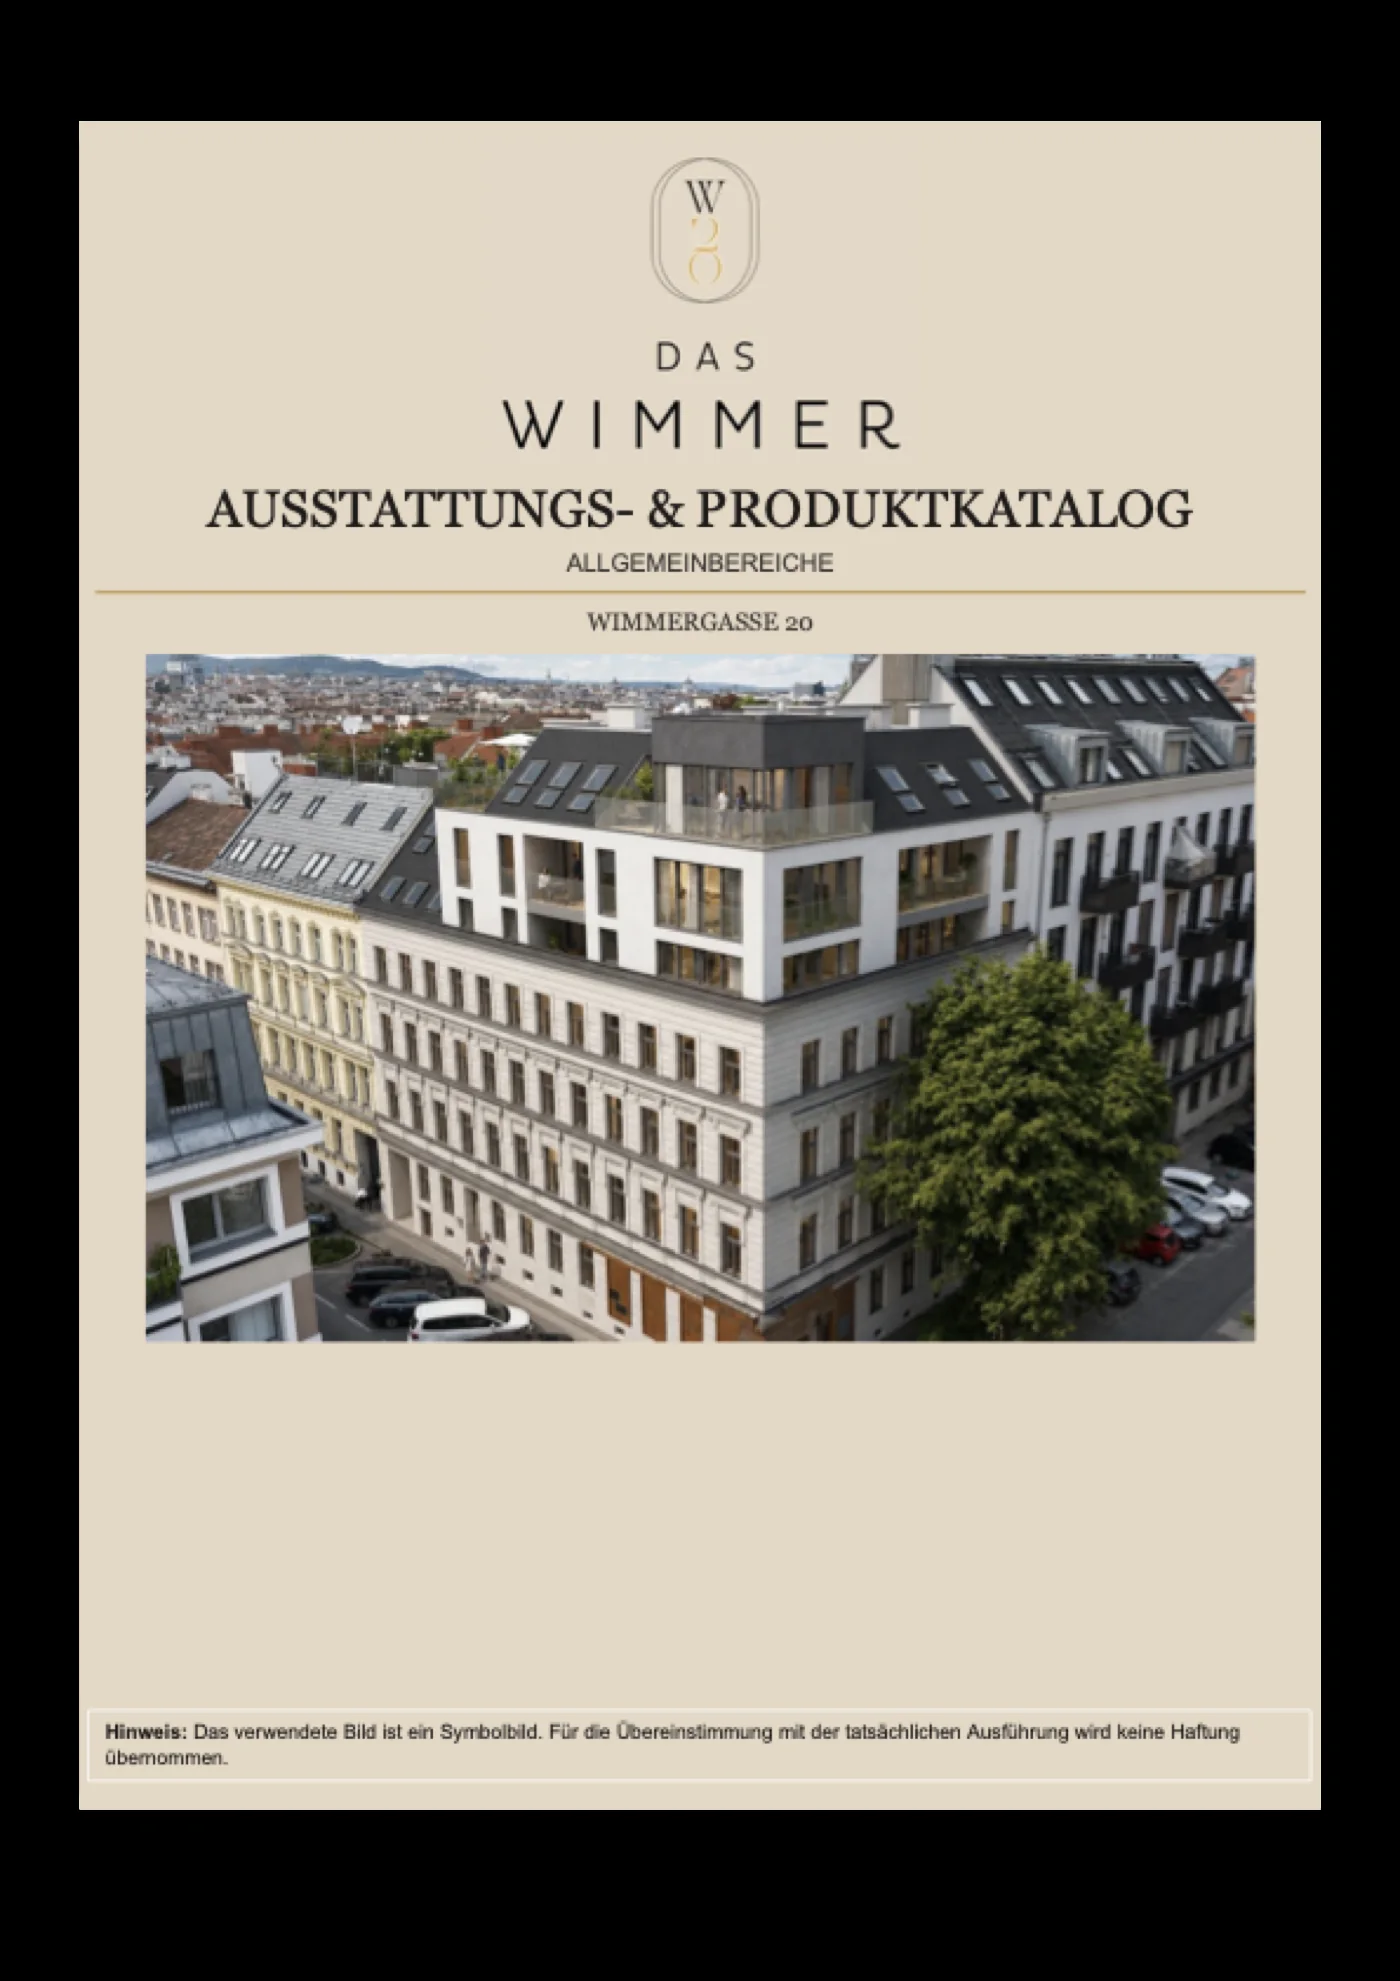
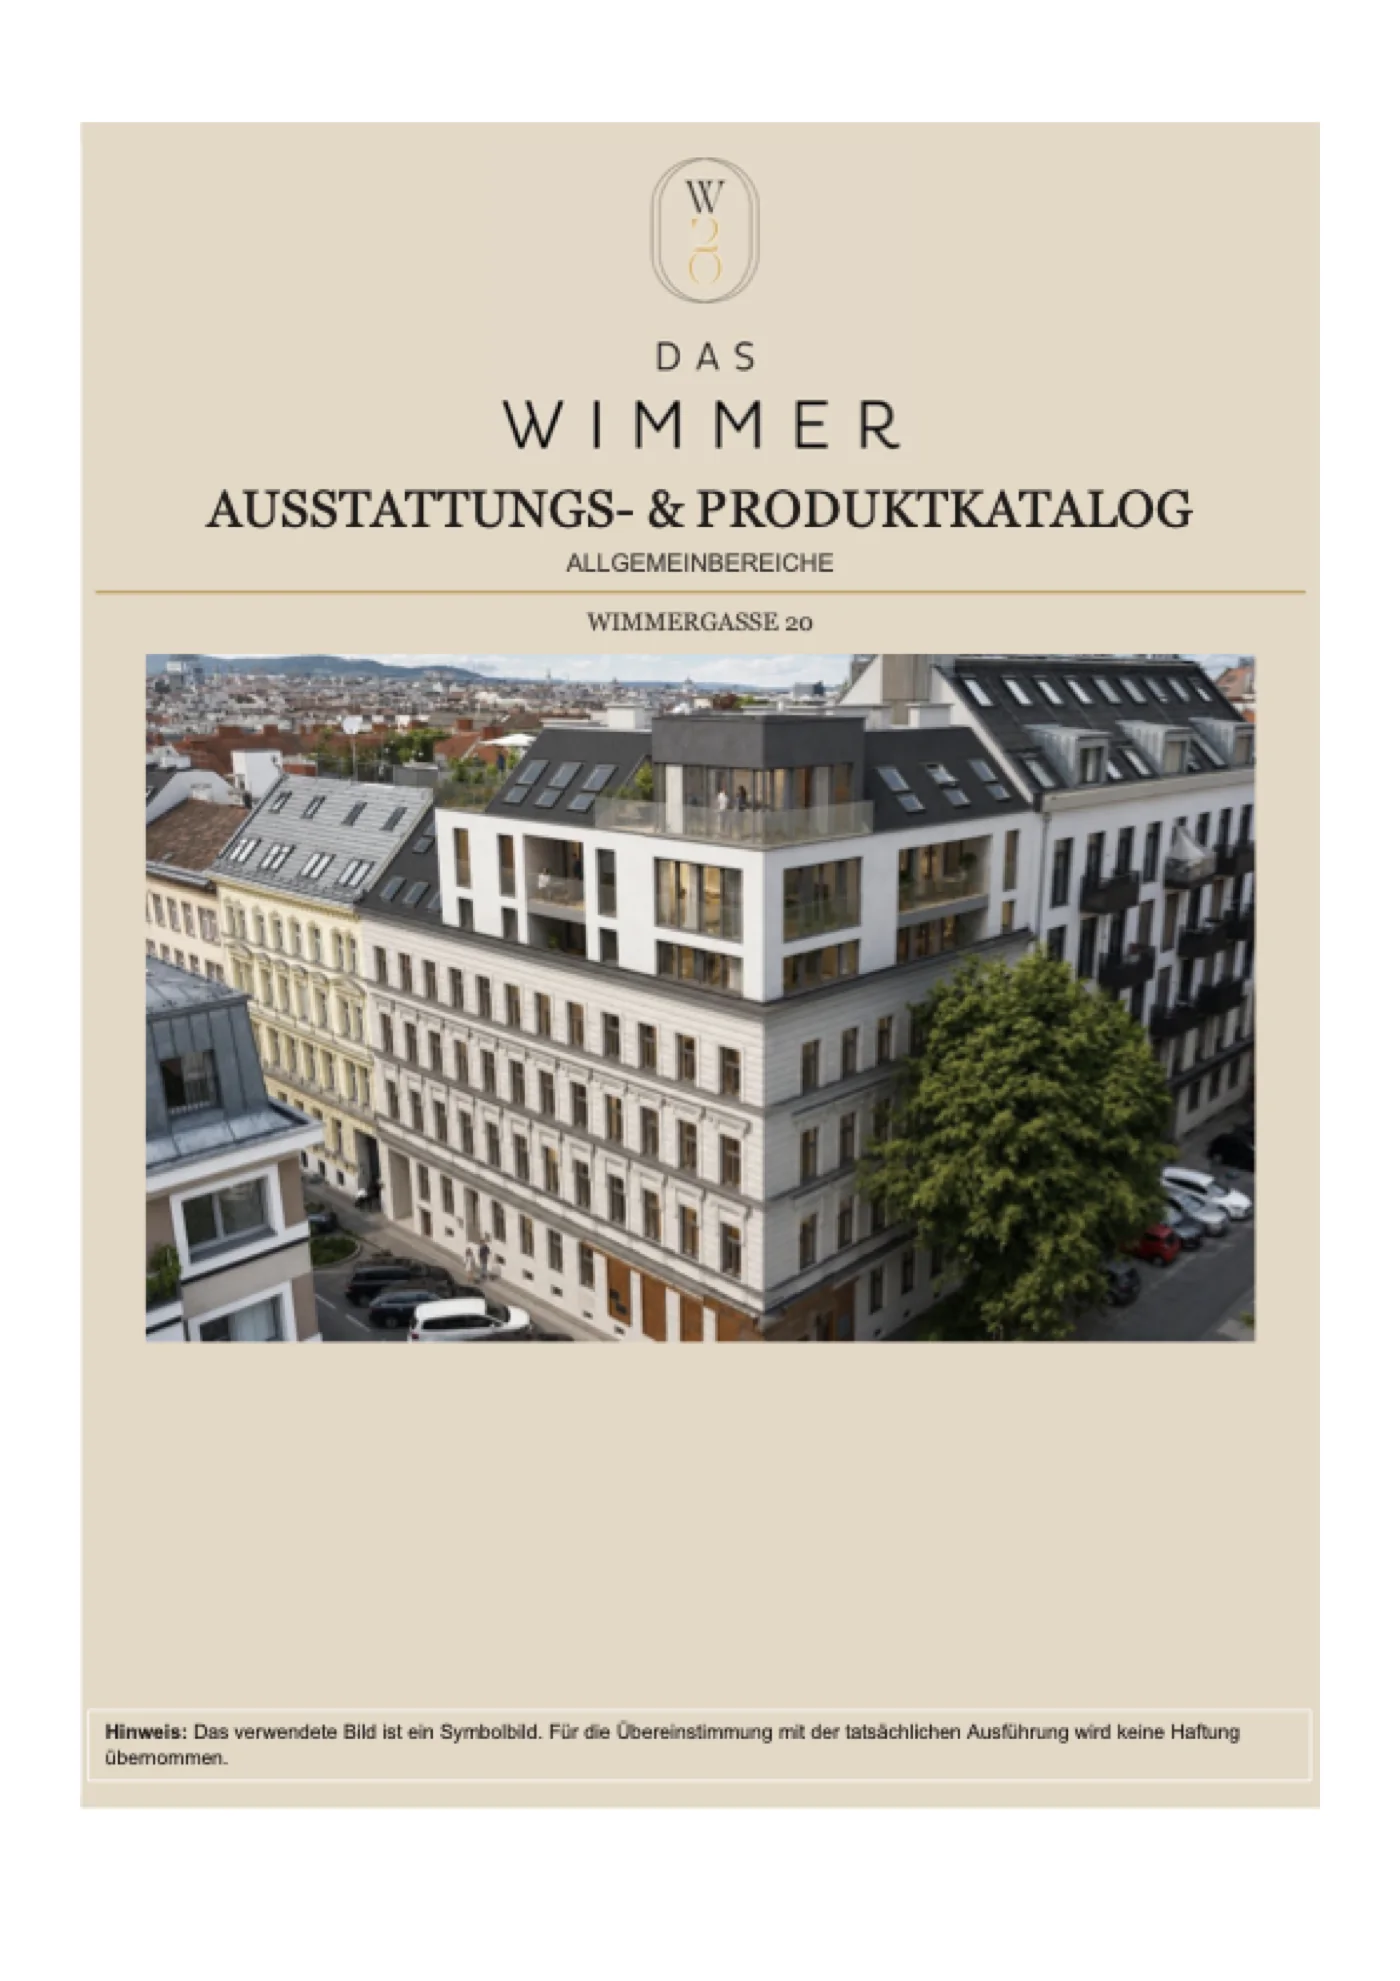
Adresse an den Subtext gerückt, Katalogseiten auf Weiß, Bilder in der Wohnungen-Sektion
- Hero: Adresszeile mit Abstand zur Headline, 8 px über dem Subtext
- Produktkatalog: PDF malt keinen Seitenhintergrund, transparente Bereiche
  wurden schwarz - alle 7 Seiten neu auf weißes Papier gerendert
- Wohnungen: je Spalte ein Bild vor Kicker und Headline; Ausschnitte aus
  dem freigegebenen Fassaden-Rendering (Altbau-Geschosse / Dachgeschoss),
  keine Innenvisualisierungen (assets/wohnungen-altbau.webp, -dach.webp)

Changed region(s): [[0.0, 0.0, 1.0, 1.0]]

diff --git a/wohnungen.html b/wohnungen.html
@@ -124,6 +124,7 @@ html:not(.wimmer-js) [data-rv],html:not(.wimmer-js) [data-rvimg]{animation:rvFal
     <h2 data-rv="1" style="margin:0 0 70px;font-family:'Pluto','Outfit',sans-serif;font-weight:200;font-size:clamp(36px,4.2vw,58px);line-height:1.1;color:#13233F;max-width:900px;text-wrap:pretty;">Sanierter Altbau. <em style="font-style:normal;color:#EB9E0C;">Neues Dachgeschoss.</em></h2>
     <div style="display:grid;grid-template-columns:1fr 1fr;gap:90px;align-items:start;">
       <div data-rv="1">
+        <div data-rvimg="1" style="aspect-ratio:16/10;margin:0 0 32px;"><img src="/assets/wohnungen-altbau.webp" width="810" height="506" loading="lazy" decoding="async" alt="Sanierter Altbau: Straßenfassade Wimmergasse 20, Erdgeschoss bis 3. Obergeschoss (Rendering, Symbolbild)" style="display:block;width:100%;height:100%;object-fit:cover;"></div>
         <p style="margin:0 0 14px;font-size:11px;letter-spacing:0.16em;text-transform:uppercase;color:#5F6A7D;">Der Bestand</p>
         <h3 style="margin:0 0 28px;font-family:'Pluto','Outfit',sans-serif;font-weight:200;font-size:34px;line-height:1.15;color:#13233F;">Sanierter Altbau</h3>
         <div style="display:flex;align-items:baseline;gap:18px;margin:0 0 30px;">
@@ -133,6 +134,7 @@ html:not(.wimmer-js) [data-rv],html:not(.wimmer-js) [data-rvimg]{animation:rvFal
         <div style="display:grid;grid-template-columns:150px 1fr;gap:24px;padding:16px 2px;border-top:1px solid rgba(19,35,63,0.16);"><span style="font-size:11px;letter-spacing:0.16em;text-transform:uppercase;color:#5F6A7D;padding-top:3px;">Ebenen</span><span style="font-size:15px;line-height:1.6;color:#13233F;">Erdgeschoss bis 3. Obergeschoss</span></div><div style="display:grid;grid-template-columns:150px 1fr;gap:24px;padding:16px 2px;border-top:1px solid rgba(19,35,63,0.16);"><span style="font-size:11px;letter-spacing:0.16em;text-transform:uppercase;color:#5F6A7D;padding-top:3px;">Einheiten</span><span style="font-size:15px;line-height:1.6;color:#13233F;">19 Wohnungen, ein Geschäftslokal, ein Atelier</span></div><div style="display:grid;grid-template-columns:150px 1fr;gap:24px;padding:16px 2px;border-top:1px solid rgba(19,35,63,0.16);"><span style="font-size:11px;letter-spacing:0.16em;text-transform:uppercase;color:#5F6A7D;padding-top:3px;">Wohnflächen</span><span style="font-size:15px;line-height:1.6;color:#13233F;">ca. 23 bis 77 m²</span></div><div style="display:grid;grid-template-columns:150px 1fr;gap:24px;padding:16px 2px;border-top:1px solid rgba(19,35,63,0.16);"><span style="font-size:11px;letter-spacing:0.16em;text-transform:uppercase;color:#5F6A7D;padding-top:3px;">Freiflächen</span><span style="font-size:15px;line-height:1.6;color:#13233F;">Loggien Top 5, 12, 19, 26 · Eigengarten Top 5</span></div><div style="display:grid;grid-template-columns:150px 1fr;gap:24px;padding:16px 2px;border-top:1px solid rgba(19,35,63,0.16);"><span style="font-size:11px;letter-spacing:0.16em;text-transform:uppercase;color:#5F6A7D;padding-top:3px;">Ausstattung</span><span style="font-size:15px;line-height:1.6;color:#13233F;">Neue Fenster und Wohnungseingangstüren in den freien Einheiten, erneuerte Leitungen (Wasser, Strom, Kanal, Gegensprechanlage) bis zur Wohnungstür</span></div><div style="display:grid;grid-template-columns:150px 1fr;gap:24px;padding:16px 2px;border-top:1px solid rgba(19,35,63,0.16);"><span style="font-size:11px;letter-spacing:0.16em;text-transform:uppercase;color:#5F6A7D;padding-top:3px;">Heizung</span><span style="font-size:15px;line-height:1.6;color:#13233F;">Gasanschluss je Wohnung, Brennwerttherme möglich</span></div><div style="display:grid;grid-template-columns:150px 1fr;gap:24px;padding:16px 2px;border-top:1px solid rgba(19,35,63,0.16);"><span style="font-size:11px;letter-spacing:0.16em;text-transform:uppercase;color:#5F6A7D;padding-top:3px;">Raumhöhe</span><span style="font-size:15px;line-height:1.6;color:#13233F;">ca. 3 Meter</span></div><div style="display:grid;grid-template-columns:150px 1fr;gap:24px;padding:16px 2px;border-top:1px solid rgba(19,35,63,0.16);border-bottom:1px solid rgba(19,35,63,0.16);"><span style="font-size:11px;letter-spacing:0.16em;text-transform:uppercase;color:#5F6A7D;padding-top:3px;">Verkauf</span><span style="font-size:15px;line-height:1.6;color:#13233F;">Unsaniert, Ausbau nach Ihren Vorstellungen</span></div>
       </div>
       <div data-rv="1">
+        <div data-rvimg="1" style="aspect-ratio:16/10;margin:0 0 32px;"><img src="/assets/wohnungen-dach.webp" width="810" height="506" loading="lazy" decoding="async" alt="Neues Dachgeschoss: drei Ebenen über dem Bestand (Rendering, Symbolbild)" style="display:block;width:100%;height:100%;object-fit:cover;"></div>
         <p style="margin:0 0 14px;font-size:11px;letter-spacing:0.16em;text-transform:uppercase;color:#5F6A7D;">Das Dach</p>
         <h3 style="margin:0 0 28px;font-family:'Pluto','Outfit',sans-serif;font-weight:200;font-size:34px;line-height:1.15;color:#13233F;">Neues Dachgeschoss</h3>
         <div style="display:flex;align-items:baseline;gap:18px;margin:0 0 30px;">

diff --git a/index.html b/index.html
@@ -155,8 +155,8 @@ html:not(.wimmer-js) [data-rv],html:not(.wimmer-js) [data-rvimg]{animation:rvFal
   <section data-hero="1" style="display:grid;grid-template-columns:1fr minmax(320px,36vw);min-height:calc(100svh - 90px);border-bottom:1px solid rgba(19,35,63,0.16);">
     <div data-hero-left="1" style="display:flex;flex-direction:column;padding:clamp(60px,10vh,132px) clamp(28px,3vw,56px) clamp(32px,4.5vh,64px) 48px;min-width:0;">
       <h1 data-mask="1" style="margin:0;overflow:hidden;display:block;font-family:'Pluto','Outfit',sans-serif;font-weight:200;font-size:clamp(46px,7vw,122px);letter-spacing:0.05em;line-height:0.95;text-transform:uppercase;white-space:nowrap;color:#13233F;"><span style="display:block;">Das Wimmer</span></h1>
-      <p data-fade="1" style="margin:0 0 12px;font-size:11px;letter-spacing:0.2em;text-transform:uppercase;color:#5F6A7D;">1050 Wien, Wimmergasse 20.</p>
-      <p data-fade="1" style="margin:clamp(16px,2.2vh,28px) 0 0;max-width:520px;font-size:clamp(17px,1.35vw,20px);line-height:1.55;color:#5F6A7D;">19 Altbau-Wohnungen und ein neues Dachgeschoss in einem Gründerzeit-Eckhaus von 1880, mitten in Margareten.</p>
+      <p data-fade="1" style="margin:clamp(22px,2.8vh,36px) 0 8px;font-size:11px;letter-spacing:0.2em;text-transform:uppercase;color:#5F6A7D;">1050 Wien, Wimmergasse 20.</p>
+      <p data-fade="1" style="margin:0;max-width:520px;font-size:clamp(17px,1.35vw,20px);line-height:1.55;color:#5F6A7D;">19 Altbau-Wohnungen und ein neues Dachgeschoss in einem Gründerzeit-Eckhaus von 1880, mitten in Margareten.</p>
       <div style="margin-top:auto;padding-top:clamp(28px,4vh,56px);display:flex;align-items:flex-end;gap:clamp(28px,3vw,56px);flex-wrap:wrap;">
         <figure style="margin:0;width:min(380px,42%);aspect-ratio:4/3;overflow:hidden;">
           <div data-clip="thumb" style="width:100%;height:100%;">
